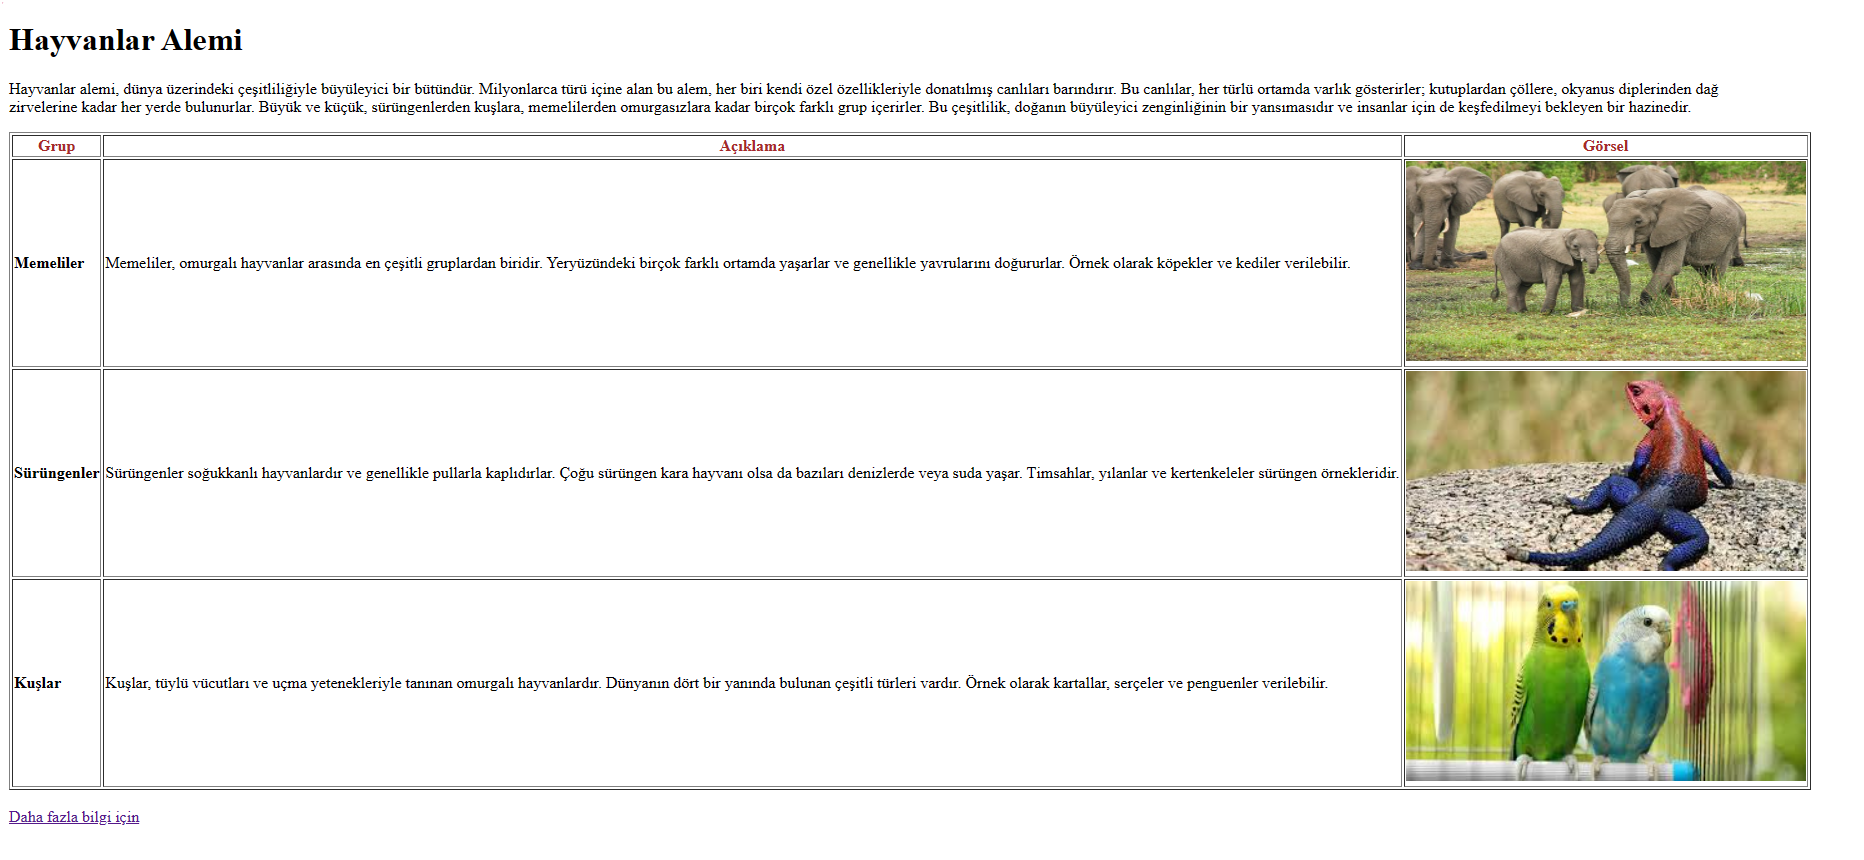
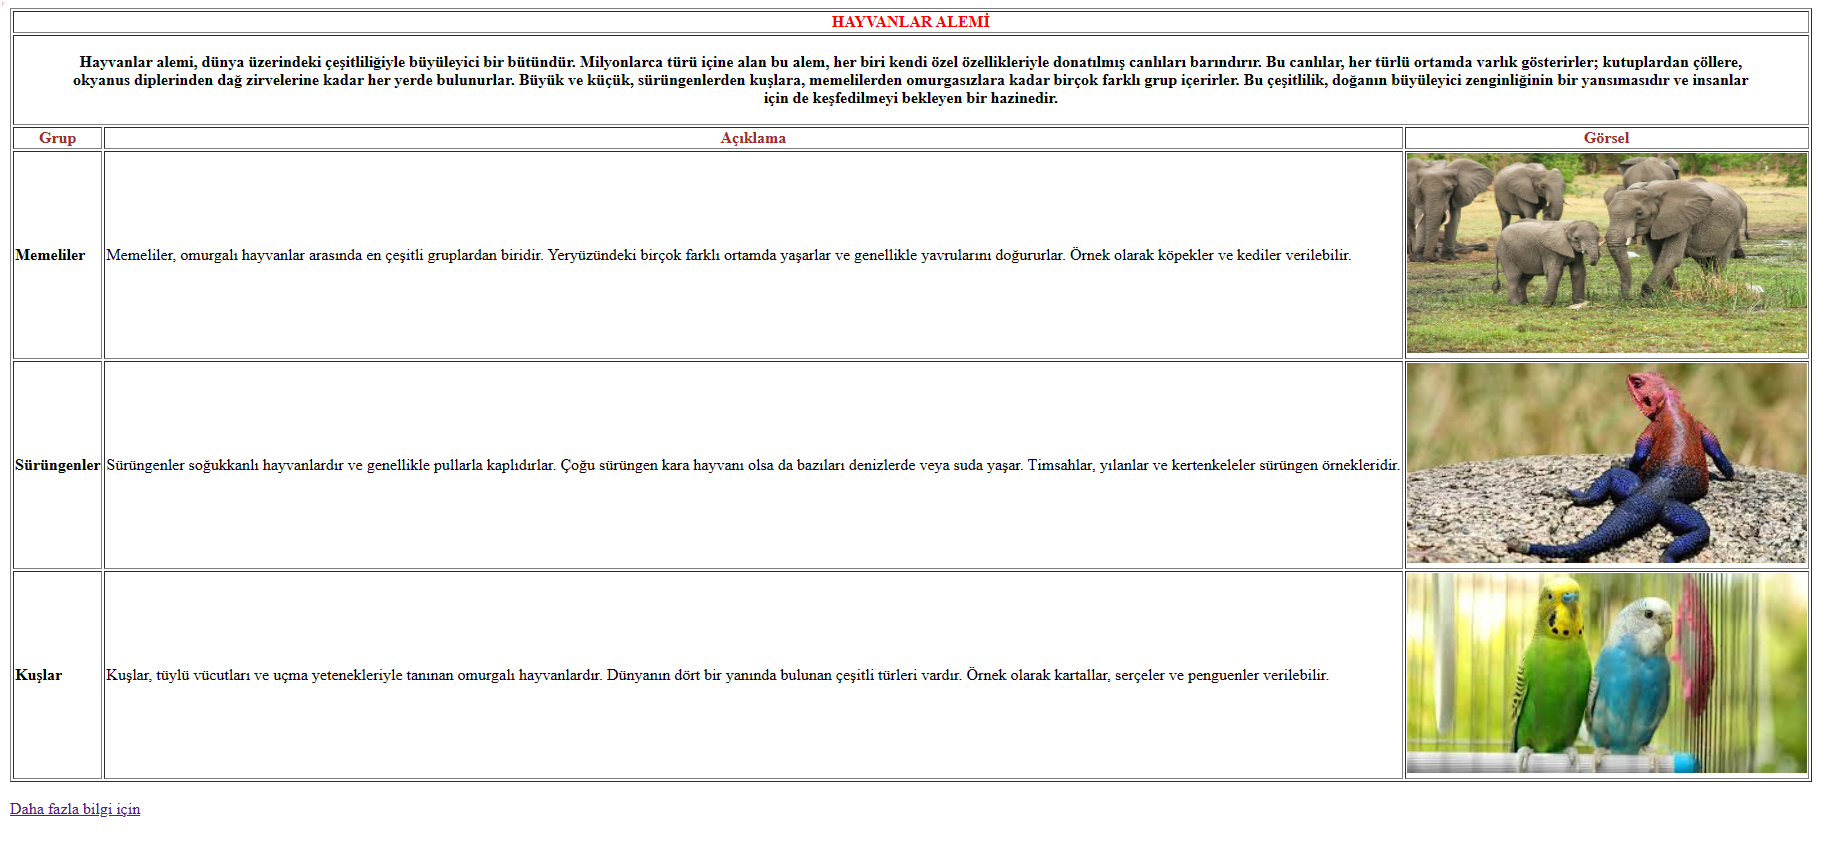
Tablolarla Çalışma

Changed region(s): [[0.0, 0.0, 0.9978, 0.98], [0.0, 0.7656, 0.7172, 0.8269]]

diff --git a/Tablolarla Çalışma-Hayvanlar Alemi/index.html b/Tablolarla Çalışma-Hayvanlar Alemi/index.html
@@ -6,37 +6,45 @@
     <title>Hayvanlar Alemi</title>
 </head>
 <body>
-    <!-- Başlık -->
-    <header>
-        <h1>Hayvanlar Alemi</h1>
-    </header>
-    
-    <!-- Paragraf -->
-    <p>
-        <!-- Paragraf içeriği -->
-        Hayvanlar alemi, dünya üzerindeki çeşitliliğiyle büyüleyici bir bütündür. Milyonlarca türü içine alan bu alem, her biri kendi özel özellikleriyle donatılmış canlıları barındırır. Bu canlılar, her türlü ortamda varlık gösterirler; kutuplardan çöllere, okyanus diplerinden dağ <br>zirvelerine kadar her yerde bulunurlar. Büyük ve küçük, sürüngenlerden kuşlara, memelilerden omurgasızlara kadar birçok farklı grup içerirler. Bu çeşitlilik, doğanın büyüleyici zenginliğinin bir yansımasıdır ve insanlar için de keşfedilmeyi bekleyen bir hazinedir.
-    </p>
+   
     
     <!-- Tablo -->
     <table border ="1">
+        <tr style="color: red;">
+             <!-- Başlık -->
+         <th colspan="3"><strong>HAYVANLAR ALEMİ</strong></th>
+        </tr>
+       
+        <!-- Paragraf -->
+        <tr>           
+        <th colspan="3">
+            <p>
+                Hayvanlar alemi, dünya üzerindeki çeşitliliğiyle büyüleyici bir bütündür. Milyonlarca türü içine alan bu alem, her biri kendi özel özellikleriyle donatılmış canlıları barındırır. Bu canlılar, her türlü ortamda varlık gösterirler; kutuplardan çöllere,<br> okyanus diplerinden dağ zirvelerine kadar her yerde bulunurlar. Büyük ve küçük, sürüngenlerden kuşlara, memelilerden omurgasızlara kadar birçok farklı grup içerirler. Bu çeşitlilik, doğanın büyüleyici zenginliğinin bir yansımasıdır ve insanlar <br>için de keşfedilmeyi bekleyen bir hazinedir.
+            </p>
+        </th>
+       </tr>
+
         <!-- Tablo başlık satırı -->
         <tr>
             <th style="color: brown;">Grup</th>
             <th style="color: brown;">Açıklama</th>
             <th style="color: brown;">Görsel</th>
         </tr>
+
         <!-- Memeliler -->
         <tr>
             <td><strong>Memeliler</strong></td>
             <td>Memeliler, omurgalı hayvanlar arasında en çeşitli gruplardan biridir. Yeryüzündeki birçok farklı ortamda yaşarlar ve genellikle yavrularını doğururlar. Örnek olarak köpekler ve kediler verilebilir.</td>
             <td><img width="400" height="200" src="images/1m.jpg" alt="Memeliler" title="Memeliler"></td>
         </tr>
+
         <!-- Sürüngenler -->
         <tr>
             <td><strong>Sürüngenler</strong></td>
             <td>Sürüngenler soğukkanlı hayvanlardır ve genellikle pullarla kaplıdırlar. Çoğu sürüngen kara hayvanı olsa da bazıları denizlerde veya suda yaşar. Timsahlar, yılanlar ve kertenkeleler sürüngen örnekleridir.</td>
             <td><img width="400" height="200" src="images/1s.jpeg" alt="Sürüngenler" title="Sürüngenler"></td>
         </tr>
+        
         <!-- Kuşlar -->
         <tr>
             <td><strong>Kuşlar</strong></td>

diff --git a/Tablolarla Çalışma-Hayvanlar Alemi/readme.md b/Tablolarla Çalışma-Hayvanlar Alemi/readme.md
@@ -17,4 +17,4 @@ Bu proje, HTML kullanarak basit bir "Hayvanlar Alemi" web sayfası oluşturmayı
 
 ## Web Tarayıcı Görüntüsü
 
-![tablo](images/Web.png)
+![tablo](images/web.png)
